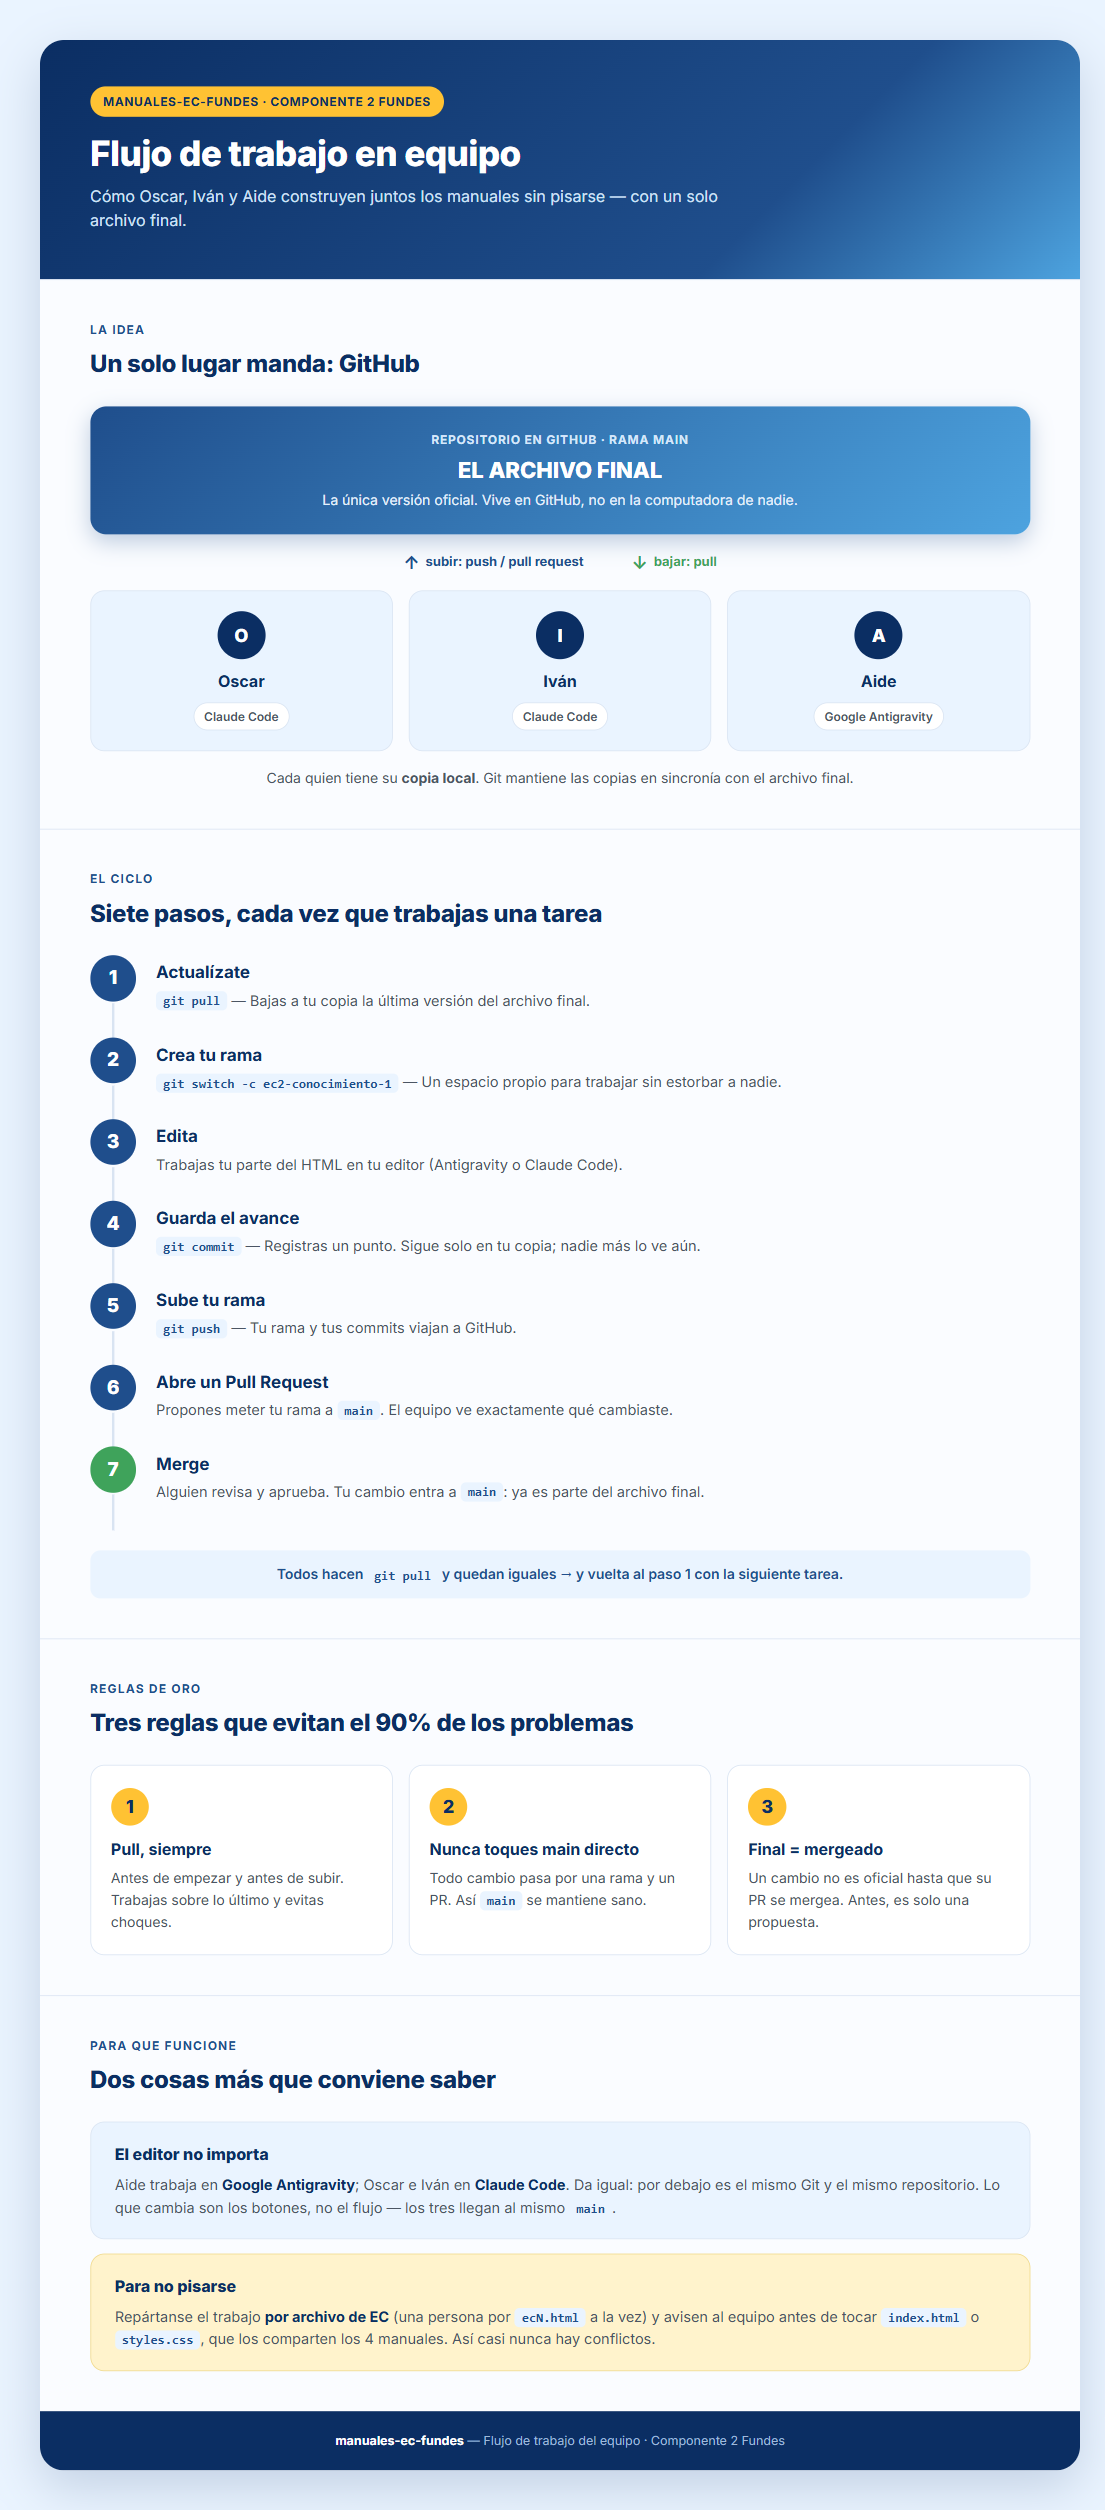
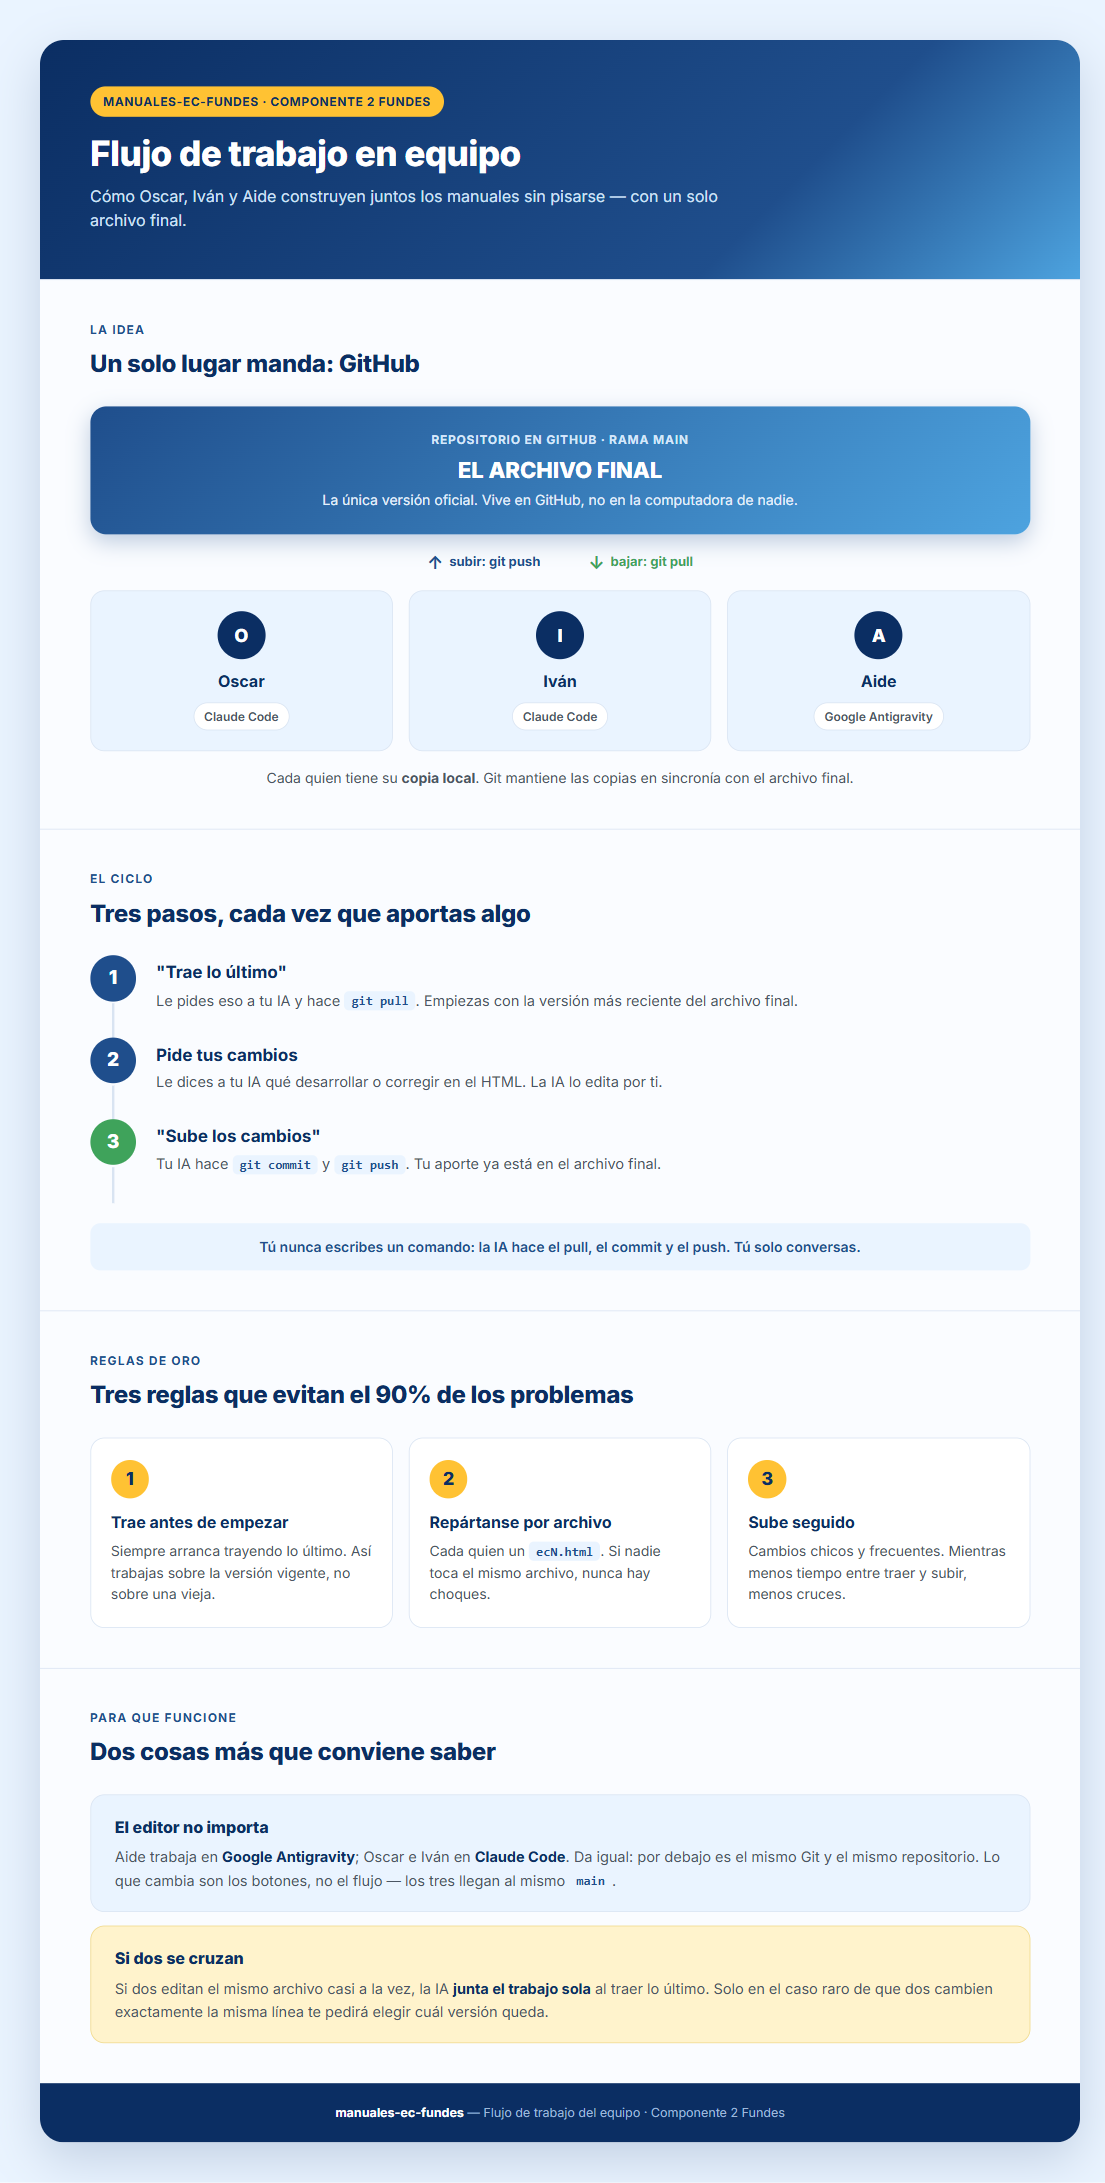
Simplificar el flujo de trabajo a "directo a main"
- Reescribe "Cómo colaborar" del README: flujo de 3 pasos (traer, pedir cambios, subir), sin ramas ni Pull Requests.
- Actualiza la infografía flujo-trabajo (HTML y PNG) al mismo flujo simple.

Changed region(s): [[0.0308, 0.0311, 0.9846, 0.9968], [0.6769, 0.623, 0.8923, 0.7787]]

diff --git a/flujo-trabajo.html b/flujo-trabajo.html
@@ -172,8 +172,8 @@
       <div class="desc">La única versión oficial. Vive en GitHub, no en la computadora de nadie.</div>
     </div>
     <div class="conector">
-      <span class="sube"><span class="flecha">&#8593;</span> subir: push / pull request</span>
-      <span class="baja"><span class="flecha">&#8595;</span> bajar: pull</span>
+      <span class="sube"><span class="flecha">&#8593;</span> subir: git push</span>
+      <span class="baja"><span class="flecha">&#8595;</span> bajar: git pull</span>
     </div>
     <div class="personas">
       <div class="persona">
@@ -197,59 +197,31 @@
 
   <section class="seccion">
     <div class="kicker">El ciclo</div>
-    <div class="titulo">Siete pasos, cada vez que trabajas una tarea</div>
+    <div class="titulo">Tres pasos, cada vez que aportas algo</div>
 
     <div class="paso">
       <div class="num">1</div>
       <div class="cuerpo">
-        <h3>Actualízate</h3>
-        <p><code>git pull</code> — Bajas a tu copia la última versión del archivo final.</p>
+        <h3>"Trae lo último"</h3>
+        <p>Le pides eso a tu IA y hace <code>git pull</code>. Empiezas con la versión más reciente del archivo final.</p>
       </div>
     </div>
     <div class="paso">
       <div class="num">2</div>
       <div class="cuerpo">
-        <h3>Crea tu rama</h3>
-        <p><code>git switch -c ec2-conocimiento-1</code> — Un espacio propio para trabajar sin estorbar a nadie.</p>
-      </div>
-    </div>
-    <div class="paso">
-      <div class="num">3</div>
-      <div class="cuerpo">
-        <h3>Edita</h3>
-        <p>Trabajas tu parte del HTML en tu editor (Antigravity o Claude Code).</p>
-      </div>
-    </div>
-    <div class="paso">
-      <div class="num">4</div>
-      <div class="cuerpo">
-        <h3>Guarda el avance</h3>
-        <p><code>git commit</code> — Registras un punto. Sigue solo en tu copia; nadie más lo ve aún.</p>
-      </div>
-    </div>
-    <div class="paso">
-      <div class="num">5</div>
-      <div class="cuerpo">
-        <h3>Sube tu rama</h3>
-        <p><code>git push</code> — Tu rama y tus commits viajan a GitHub.</p>
-      </div>
-    </div>
-    <div class="paso">
-      <div class="num">6</div>
-      <div class="cuerpo">
-        <h3>Abre un Pull Request</h3>
-        <p>Propones meter tu rama a <code>main</code>. El equipo ve exactamente qué cambiaste.</p>
+        <h3>Pide tus cambios</h3>
+        <p>Le dices a tu IA qué desarrollar o corregir en el HTML. La IA lo edita por ti.</p>
       </div>
     </div>
     <div class="paso final">
-      <div class="num">7</div>
+      <div class="num">3</div>
       <div class="cuerpo">
-        <h3>Merge</h3>
-        <p>Alguien revisa y aprueba. Tu cambio entra a <code>main</code>: ya es parte del archivo final.</p>
+        <h3>"Sube los cambios"</h3>
+        <p>Tu IA hace <code>git commit</code> y <code>git push</code>. Tu aporte ya está en el archivo final.</p>
       </div>
     </div>
 
-    <div class="vuelta">Todos hacen <code>git pull</code> y quedan iguales &#8594; y vuelta al paso 1 con la siguiente tarea.</div>
+    <div class="vuelta">Tú nunca escribes un comando: la IA hace el pull, el commit y el push. Tú solo conversas.</div>
   </section>
 
   <section class="seccion">
@@ -258,18 +230,18 @@
     <div class="reglas">
       <div class="regla">
         <div class="n">1</div>
-        <h3>Pull, siempre</h3>
-        <p>Antes de empezar y antes de subir. Trabajas sobre lo último y evitas choques.</p>
+        <h3>Trae antes de empezar</h3>
+        <p>Siempre arranca trayendo lo último. Así trabajas sobre la versión vigente, no sobre una vieja.</p>
       </div>
       <div class="regla">
         <div class="n">2</div>
-        <h3>Nunca toques main directo</h3>
-        <p>Todo cambio pasa por una rama y un PR. Así <code>main</code> se mantiene sano.</p>
+        <h3>Repártanse por archivo</h3>
+        <p>Cada quien un <code>ecN.html</code>. Si nadie toca el mismo archivo, nunca hay choques.</p>
       </div>
       <div class="regla">
         <div class="n">3</div>
-        <h3>Final = mergeado</h3>
-        <p>Un cambio no es oficial hasta que su PR se mergea. Antes, es solo una propuesta.</p>
+        <h3>Sube seguido</h3>
+        <p>Cambios chicos y frecuentes. Mientras menos tiempo entre traer y subir, menos cruces.</p>
       </div>
     </div>
   </section>
@@ -282,8 +254,8 @@
       <p>Aide trabaja en <strong>Google Antigravity</strong>; Oscar e Iván en <strong>Claude Code</strong>. Da igual: por debajo es el mismo Git y el mismo repositorio. Lo que cambia son los botones, no el flujo — los tres llegan al mismo <code>main</code>.</p>
     </div>
     <div class="nota amarilla">
-      <h3>Para no pisarse</h3>
-      <p>Repártanse el trabajo <strong>por archivo de EC</strong> (una persona por <code>ecN.html</code> a la vez) y avisen al equipo antes de tocar <code>index.html</code> o <code>styles.css</code>, que los comparten los 4 manuales. Así casi nunca hay conflictos.</p>
+      <h3>Si dos se cruzan</h3>
+      <p>Si dos editan el mismo archivo casi a la vez, la IA <strong>junta el trabajo sola</strong> al traer lo último. Solo en el caso raro de que dos cambien exactamente la misma línea te pedirá elegir cuál versión queda.</p>
     </div>
   </section>
 

diff --git a/README.md b/README.md
@@ -28,40 +28,24 @@ Solo abre `index.html` con doble clic en cualquier navegador (Chrome, Edge, Fire
 
 ## Cómo colaborar
 
-Trabajamos **tres personas** sobre este repo: Oscar, Iván y Aide. Da igual el editor (Antigravity, Claude Code o VS Code) — por debajo todos usan el mismo Git y el mismo repositorio. La rama `main` es **el archivo final**: la única versión oficial.
+Trabajamos **tres personas** sobre este repo: Oscar, Iván y Aide. Da igual el editor (Antigravity o Claude Code) — por debajo todos usan el mismo Git y el mismo repositorio. La rama `main` es **el archivo final**: la única versión, y todos trabajan directamente sobre ella.
 
-### Reglas de oro
+Tu asistente de IA (Claude Code o Antigravity) hace todo el Git por ti. Tú solo conversas:
 
-1. **`git pull` antes de empezar y antes de subir.** Así trabajas siempre sobre lo último.
-2. **Nunca se trabaja directo sobre `main`.** Todo cambio entra por una rama y un Pull Request (PR).
-3. Un cambio es oficial **solo cuando su PR se mergea** a `main`.
+1. **"Trae lo último"** — la IA hace `git pull`; empiezas con la versión más reciente.
+2. **Pídele los cambios** — le dices qué desarrollar o corregir en el HTML; la IA edita.
+3. **"Sube los cambios"** — la IA hace `git commit` y `git push`; tu aporte queda en el archivo final.
 
-### Ciclo de trabajo (por cada tarea)
-
-```
-git switch main && git pull           # 1. partes de la última versión
-git switch -c ec2-conocimiento-1      # 2. creas tu rama (nómbrala por la tarea)
-   ...editas el HTML...
-git add ec2.html                      # 3. marcas qué entra
-git commit -m "EC2: desarrollar conocimiento 1 del Elemento 1"
-git push -u origin ec2-conocimiento-1 # 4. subes tu rama a GitHub
-```
-
-5. En GitHub, abre un **Pull Request** de tu rama hacia `main`.
-6. Otra persona del equipo lo revisa y le da **Merge**.
-7. Todos hacen `git pull` sobre `main` → todos quedan con el archivo final.
-
-> En Claude Code (Oscar e Iván) basta con pedirle el ciclo al asistente. En Antigravity (Aide), el panel *Source Control* tiene botones para pull, commit, push y abrir el PR.
+No hay ramas ni Pull Requests. Los demás verán tu aporte la próxima vez que traigan lo último.
 
 ### Para no pisarse
 
-- Repártanse el trabajo **por archivo de EC**: una persona por `ecN.html` a la vez.
-- Avisen al equipo antes de tocar `index.html` o `assets/styles.css` — los comparten los 4 manuales.
-- Commits pequeños y frecuentes, con mensaje claro:
-  - `EC2: desarrollar conocimiento 1 del Elemento 1`
-  - `EC3: corregir numeración del Elemento 2`
+- **Repártanse por archivo de EC**: una persona por `ecN.html` a la vez. Si nadie edita el mismo archivo, nunca hay choques.
+- **Avisen** antes de tocar `index.html` o `assets/styles.css` — los comparten los 4 manuales.
+- **Suban seguido**, en cambios chicos: mientras menos tiempo pase entre traer y subir, menos posibilidad de cruzarse.
+- Si dos editan el mismo archivo casi a la vez, la IA junta el trabajo sola; solo pedirá ayuda en el caso raro de que dos cambien exactamente la misma línea.
 
-Para una vista visual del proceso completo, abre `flujo-trabajo.html`.
+Para una vista visual del proceso, abre `flujo-trabajo.html`.
 
 ## Estado actual de los manuales
 